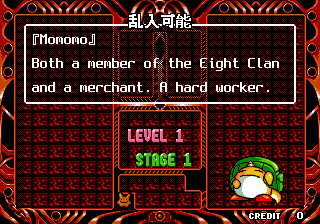
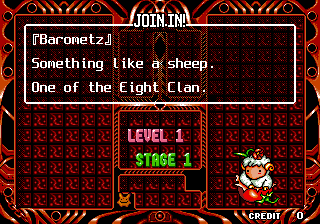
README, technical notes, screenshots; chips found by CRC, output CRC check
Claude-Session: https://claude.ai/code/session_013Vje3pEtpLHubqCGwCgoQX

diff --git a/tools/romset.py b/tools/romset.py
@@ -6,15 +6,20 @@ PROGRAM = (('epr-17241.ic32', 0x1cad1149), ('epr-17240.ic31', 0xbeecf96d))
 SOUND = ('epr-17239.ic4', 0x020ff6ef)
 
 
+def read_chip(z, name, crc):
+    """a chip of the zip, found by CRC (the names inside the zip do not matter)"""
+    for info in z.infolist():
+        if info.CRC == crc:
+            data = z.read(info)
+            if zlib.crc32(data) & 0xffffffff == crc:
+                return data
+    raise SystemExit('%s (CRC %08x) not found in the zip: not the MAME puyopuy2 dump' % (name, crc))
+
+
 def read_program(zip_path):
     """the 1 MB program of puyopuy2.zip, interleaved, checked by CRC"""
     z = zipfile.ZipFile(zip_path)
-    halves = []
-    for name, crc in PROGRAM:
-        data = z.read(name)
-        if zlib.crc32(data) & 0xffffffff != crc:
-            raise SystemExit('%s: wrong CRC (not the MAME puyopuy2 dump)' % name)
-        halves.append(data)
+    halves = [read_chip(z, name, crc) for name, crc in PROGRAM]
     prog = bytearray(len(halves[0]) * 2)
     prog[0::2], prog[1::2] = halves
     return prog
@@ -27,8 +32,4 @@ def split_program(prog):
 
 def read_sound(zip_path):
     """the UPD7759 sample ROM, unchanged"""
-    name, crc = SOUND
-    data = zipfile.ZipFile(zip_path).read(name)
-    if zlib.crc32(data) & 0xffffffff != crc:
-        raise SystemExit('%s: wrong CRC (not the MAME puyopuy2 dump)' % name)
-    return data
+    return read_chip(zipfile.ZipFile(zip_path), *SOUND)

diff --git a/make_puyopuy2e.py b/make_puyopuy2e.py
@@ -11,6 +11,8 @@ sys.path.insert(0, os.path.join(HERE, 'tools'))
 import romset, build
 
 OUT_NAMES = ('pp2e-17241.ic32', 'pp2e-17240.ic31')
+# the CRCs the puyopuy2e entry of mame2003-plus expects
+EXPECTED = {'pp2e-17241.ic32': 0x6a1c9865, 'pp2e-17240.ic31': 0x384bcad2, 'epr-17239.ic4': 0x020ff6ef}
 
 
 def main():
@@ -30,9 +32,13 @@ def main():
         for name, data in files:
             z.writestr(name, data)
     print('written', out)
+    ok = True
     for name, data in files:
-        print('  %-16s %7d  %08x  %s' % (name, len(data), zlib.crc32(data) & 0xffffffff,
-                                         hashlib.sha1(data).hexdigest()))
+        crc = zlib.crc32(data) & 0xffffffff
+        print('  %-16s %7d  %08x  %s' % (name, len(data), crc, hashlib.sha1(data).hexdigest()))
+        ok = ok and crc == EXPECTED[name]
+    print('CRCs match the mame2003-plus driver' if ok else
+          'WARNING: the CRCs differ from the ones the mame2003-plus driver expects')
 
 
 if __name__ == '__main__':

diff --git a/README.md b/README.md
@@ -1,10 +1,168 @@
 # Puyo Puyo 2 English (Sega C2 arcade)
 
-Work in progress: an English translation of the arcade *Puyo Puyo 2* (ぷよぷよ通, Compile
-1994, Sega C2 board, MAME set `puyopuy2`), as a bootleg set `puyopuy2e` for
-[mame2003-plus](https://github.com/zanac/mame2003-plus-libretro).
+An English translation of the arcade *Puyo Puyo 2* (ぷよぷよ通, Compile 1994, Sega C2
+board, MAME set `puyopuy2`), as a bootleg clone set `puyopuy2e` for
+[mame2003-plus](https://github.com/zanac/mame2003-plus-libretro) (branch `puyopuy2e`).
 
-Character names follow the English names of the Super Puyo Puyo 2 translation by J2e
-Translations (SKELETON-T, MINI ZOMBIE, SUKIYAPODES, ...).
+Everything Japanese on screen is translated: the character profiles before each match,
+the attract mode's tutorial pages, the title logo, the entry screen, the tower, the rule
+and level select screens, the join-in messages, the continue and win screens and the
+service menu. The character names follow the English names of the Super Puyo Puyo 2 fan
+translation by J2e Translations (Skeleton-T, Mini Zombie, Sukiyapodes, ...).
 
-See [docs/notes.md](docs/notes.md) for the technical notes.
+![Puyo Puyo 2 English in mame2003-plus](screenshots/core_title.png)
+![a tutorial page in mame2003-plus](screenshots/core_tutorial.png)
+
+*`puyopuy2e` in the mame2003-plus core: the title and a tutorial page.*
+
+## For dummies
+
+You need one file you already have from your MAME/RetroArch ROM collection:
+`puyopuy2.zip` (Puyo Puyo 2, the MAME set). This project does not give it to you.
+
+1. Install Python 3 (Windows: [python.org](https://www.python.org/downloads/), tick
+   "Add python.exe to PATH" during the setup; macOS and Linux usually have it already).
+   Nothing else is needed.
+2. Download this project: green **Code** button on GitHub, **Download ZIP**, and unpack
+   it. Or with git:
+   ```
+   git clone https://github.com/zanac/puyopuy2e
+   ```
+3. Put `puyopuy2.zip` in the `puyopuy2e` folder you just unpacked (next to this README).
+4. Open a terminal in that folder (Windows: type `cmd` in the address bar of the folder
+   window and press Enter) and run:
+   ```
+   python3 make_puyopuy2e.py
+   ```
+   On Windows, if `python3` is not found, use `python` or `py` instead:
+   ```
+   py make_puyopuy2e.py
+   ```
+5. You get `puyopuy2e.zip` in the same folder, the full English ROM set (all three chips,
+   it does not need `puyopuy2.zip` any more). The script prints "written ...
+   puyopuy2e.zip", the CRC of every file and "CRCs match the mame2003-plus driver".
+6. Copy `puyopuy2e.zip` into your ROM folder and start it with the **mame2003-plus**
+   core (RetroArch: Load Content, pick `puyopuy2e.zip`, choose "Arcade (MAME
+   2003-Plus)"). The core must be a build with the `puyopuy2e` entry (branch
+   `puyopuy2e` of [zanac/mame2003-plus-libretro](https://github.com/zanac/mame2003-plus-libretro)).
+
+The zip can also be somewhere else: `python3 make_puyopuy2e.py FOLDER [OUT_FOLDER]`, or
+the path of the zip itself. If the script says a chip is not found, your `puyopuy2.zip`
+is a different dump: check it against the input table below (the chips are found by CRC,
+the names inside the zip do not matter).
+
+## Support
+Hey dude! Help me out for a couple of :beers: or a :coffee:!<br/>
+[![coffee](https://www.buymeacoffee.com/assets/img/custom_images/black_img.png)](https://bmc.link/zanac)
+
+## Status
+
+| Part | State |
+|---|---|
+| Character profiles before each match (58 pages) | English, new 8x16 text engine and font |
+| Attract mode tutorial pages (15) and their titles | English |
+| Title logo ぷよぷよ通 | redrawn as "Puyo Puyo", the gold 2 stays |
+| Entry screen: 参加者募集中, 参加, ひとりでぷよぷよ ... | PLAYERS WANTED!, JOIN!, 1P/2P PUYO PUYO |
+| Tower: 相手をえらんでね, ここにいる | PICK YOUR RIVAL, YOU ARE HERE |
+| 乱入可能 sign, 連鎖 counter, 全消し | JOIN IN!, CHAIN, ALL CLEAR |
+| Rule select screen | CHOOSE A RULE! and both rule lines |
+| Level select: 激甘 ... 激辛 | EXTRA MILD, MILD, MEDIUM, HOT, EXTRA HOT |
+| Join-in and link messages, はい / いいえ | NEW CHALLENGER!, YES / NO, ... |
+| Continue screen, win screen (やった) | CONTINUE?, YAY! |
+| Act Against AIDS slogan 勇気と愛気 | COURAGE AND LOVE |
+| Service menu romaji, ending record (MAX RENSA) | English |
+| ROM set `puyopuy2e`, driver entry | done; checked in MAME 0.264 and in the mame2003-plus core |
+| Full game, start to ending, 1 player and 2 players | played in MAME: every screen in English |
+
+Known limits:
+
+- The ending has no text; its playing record keeps the game's own romaji names of the
+  rivals (SUKETOUDARA, SHEZO WEGEY, ...), already in Latin letters.
+- The link messages (two cabinets joined by a cable) cannot be seen in an emulator; they
+  are checked by drawing them from the new ROM the way the game does.
+
+## Screenshots
+
+Japanese arcade original on the left, `puyopuy2e` on the right (MAME).
+
+| | Original | English |
+|---|---|---|
+| Title | ![](screenshots/title_jp.png) | ![](screenshots/title_en.png) |
+| Act Against AIDS | ![](screenshots/aids_jp.png) | ![](screenshots/aids_en.png) |
+| Tutorial | ![](screenshots/tutorial_jp.png) | ![](screenshots/tutorial_en.png) |
+| Tutorial | ![](screenshots/tutorial2_jp.png) | ![](screenshots/tutorial2_en.png) |
+| Entry | ![](screenshots/entry_jp.png) | ![](screenshots/entry_en.png) |
+| Entry, game mode | ![](screenshots/mode_jp.png) | ![](screenshots/mode_en.png) |
+| Tower | ![](screenshots/tower_jp.png) | ![](screenshots/tower_en.png) |
+| Tower | ![](screenshots/tower2_jp.png) | ![](screenshots/tower2_en.png) |
+| Profile | ![](screenshots/profile_jp.png) | ![](screenshots/profile_en.png) |
+| Join-in | ![](screenshots/challenger_jp.png) | ![](screenshots/challenger_en.png) |
+| Rule select | ![](screenshots/rule_jp.png) | ![](screenshots/rule_en.png) |
+| Level select | ![](screenshots/level_jp.png) | ![](screenshots/level_en.png) |
+| Win | ![](screenshots/win_jp.png) | ![](screenshots/win_en.png) |
+| Continue | ![](screenshots/continue_jp.png) | ![](screenshots/continue_en.png) |
+
+## The ROM set
+
+Input, the chips of `puyopuy2.zip`:
+
+| File | Size | CRC32 | SHA1 |
+|---|---|---|---|
+| epr-17241.ic32 | 524288 | 1cad1149 | 77fb0482fa35e615c0bed65f4d7f4dd89b241f23 |
+| epr-17240.ic31 | 524288 | beecf96d | c2bdad4b6184c11f81f2a5db409cb4ea186205a7 |
+| epr-17239.ic4 | 524288 | 020ff6ef | 6095b8277b47a6fd7a9721f15a70ae5bf6be9b1a |
+
+Output, the files of `puyopuy2e.zip`:
+
+| File | Size | CRC32 | SHA1 | From |
+|---|---|---|---|---|
+| pp2e-17241.ic32 | 524288 | 6a1c9865 | d067d991be92d051da440d32640a4fb12333e82a | epr-17241.ic32, changed |
+| pp2e-17240.ic31 | 524288 | 384bcad2 | 569510f45b3bcbd1d191524de78e6b47c2b1cc47 | epr-17240.ic31, changed |
+| epr-17239.ic4 | 524288 | 020ff6ef | 6095b8277b47a6fd7a9721f15a70ae5bf6be9b1a | copied |
+
+These names and CRCs are the ones the `puyopuy2e` driver entry of mame2003-plus expects
+(a clone of `puyopuy2`, same board and protection). To try the set in a recent MAME
+instead, put the two `pp2e` files in a copy of `puyopuy2.zip` under the names
+`epr-17241.ic32` and `epr-17240.ic31` and start `puyopuy2`.
+
+## How it is built
+
+`make_puyopuy2e.py` reads the program of `puyopuy2.zip` and runs `tools/build.py`, which
+redoes the whole translation from the original program every time; the result is the
+same byte for byte. The English text is `text/script_en.py`; the PNGs in `assets/gfx`
+are the big lettering. Only the Python 3 standard library is used.
+
+| File | Purpose |
+|---|---|
+| `make_puyopuy2e.py` | the ROM set from `puyopuy2.zip` |
+| `tools/build.py` | the whole build, step by step |
+| `text/script_en.py` | the English profiles and tutorial pages |
+| `tools/text.py` | writes the pages and points the original ones at them |
+| `patch/text8.s`, `patch/hooks.s` | the new text engine (8x16 glyphs) and the page hooks (68000; `patch/assemble.sh` rebuilds the `.bin`) |
+| `tools/font.py`, `font/spleen-8x16.bdf` | the text font |
+| `font/title_font.py` | the capitals of the tutorial titles and small labels |
+| `tools/titles.py` | the tutorial page titles |
+| `tools/labels.py` | the other screens' graphics and the service menu words |
+| `tools/logo.py` | the title logo |
+| `tools/linkmsg.py` | the join-in and link messages |
+| `tools/levels.py` | the level select labels |
+| `tools/gfx.py` | tiles, maps, the compressed graphics streams and where they go |
+| `tools/lz.py` | the game's LZ format, unpacker and packer |
+| `tools/png.py` | reads and writes the PNGs |
+| `tools/romset.py` | the chips of the MAME set |
+| `tools/make_gfx_assets.py`, `tools/bigtext.py` | draw `assets/gfx` (maintainers only: Pillow and the Poppins Bold font) |
+
+Technical notes on the game: [docs/notes.md](docs/notes.md).
+
+## Credits and license
+
+- Translation and hacking: Zanac (Vanni Brutto).
+- Character names: from the Super Puyo Puyo 2 English translation by J2e Translations.
+- Text font: [Spleen](https://github.com/fcambus/spleen) 8x16 by Frederic Cambus, BSD
+  2-clause license (`font/LICENSE-spleen`).
+- Title logo: the "Puyo Puyo" lettering is cut from `assets/puyopuyo_logo.jpg`
+  (`logo_puyo.png`, in the colours of the original logo).
+- Big lettering of `assets/gfx`: drawn with Poppins Bold (SIL Open Font License) by the
+  maintainer script; the font itself is not part of the project.
+- *Puyo Puyo 2* © Compile 1994, Sega. This project distributes no game data: the build
+  starts from your own `puyopuy2.zip`.

diff --git a/docs/notes.md b/docs/notes.md
@@ -1,49 +1,102 @@
 # Puyo Puyo 2 (Sega C2): technical notes
 
-Working notes from the analysis of the MAME set `puyopuy2` (Compile 1994, Sega C2 board).
+Notes from the analysis of the MAME set `puyopuy2` (Compile 1994, Sega C2 board) and on
+how `puyopuy2e` changes it. Addresses are in the 1 MB program.
 
 ## Program
 
 `epr-17241.ic32` (even bytes) and `epr-17240.ic31` (odd bytes) make the 1 MB 68000
-program (`tools/romset.py`). `epr-17239.ic4` is the UPD7759 sound ROM.
+program (`tools/romset.py`). `epr-17239.ic4` is the UPD7759 sound ROM, unchanged. The
+protection chip (read at `$800001`) does not check the program: the modified ROM runs in
+MAME 0.264 and in mame2003-plus.
 
 ## Text
 
-The text is not compressed (`tools/text.py`): 16-bit codes, one per 16x16 glyph of a
-1 bpp font in the ROM (glyph of code `c` at `0x92c65 + c * 32`). The font holds only the
-glyphs the text uses (kana and kanji, in order of first use). Line breaks are `ff08 pos`,
-the end of a page `ffff`.
+The text is not compressed: 16-bit codes, one per 16x16 glyph of a 1 bpp font (glyph of
+code `c` at `0x92c65 + c * 32`; the font holds only the glyphs the text uses, kana and
+kanji in order of first use). Control codes:
 
-Two kinds of text, all in `0x1bf94`-`0x1d630`:
+- `ff04 n`: typing speed;
+- `ff08 pos`: new line (`pos` is the VRAM offset of the line from the box's corner);
+- `ff1c hi lo`: jump by the TURN DIRECTION DIP switch;
+- `ffff`: end of the page.
 
-- the character profiles shown in a box before each match (38, pointer table at `0x1bf0c`);
-- the attract mode's tutorial pages (きほんそうさのひみつ, おじゃまぷよのひみつ, そうさいのひみつ,
-  ぜんけしのひみつ, ...).
+Two kinds of pages, all in `0x1bf94`-`0x1d630`: the character profiles shown in a box
+before each match (32 characters x 3 rows) and the tutorial pages of the attract mode (18
+characters x 7 rows). They are opened by two script operations: op 03 (`0x171a4`, the
+tutorial window) and op 0b (`0x1720a`, the profile box); both take a long resume pointer,
+then the text inline.
 
-The game draws a page by giving each distinct glyph two VRAM tiles (8x16 each, tiles
-`0x780` on).
+The text task is at `0x17432`. It gets the font from the word at `0x9000e` (the table of
+bank `0x90000`) and draws each glyph with the routine at `0x17538`, which keeps the codes
+already drawn at `0xffaa00` and gives each new one two columns of two tiles (from the
+tile number at `$38` of the task).
+
+In `puyopuy2e`:
+
+- `0x17538` is replaced by `patch/text8.s`: 8x16 glyphs (16 bytes, one column of two
+  tiles per code), ASCII codes; code 0 draws nothing (the pause after a name);
+- the font (Spleen 8x16, `{` and `}` drawn as the corner brackets 『』) is at `0x98300`,
+  and `0x9000e` points at it;
+- `patch/hooks.s` at `0x98b00` (jumped to from `0x171b4` and `0x1720c`): when the inline
+  text starts with `0xfffe`, the long that follows is where the text really is;
+- the English pages are at `0x98c00`-`0x9fff0`; each original page starts with
+  `0xfffe` and a pointer to its English page.
 
 ## Compressed graphics
 
-Most tiles are packed with a small LZ (`tools/lz.py`, decompressor at `0x1e72`):
+Most tiles and maps are packed with a small LZ (`tools/lz.py`, unpacker at `0x1e72`):
 
 - `00` ends the stream;
 - `01`-`7f`: that many literal bytes follow;
 - `80 | k`, `b`: copy `k + 3` bytes from a 256-byte ring buffer, starting `b + 1` bytes
   back.
 
-The streams are loaded through lists of 6-byte entries (flags, count, VRAM destination,
-16-bit offset of the stream inside the list's 64 KB bank; `0xff` ends a list), read at
-`0x1b70`. `tools/lz.py` packs the same format; on every stream checked it gives back the
-original size exactly.
+The streams are loaded through lists of 6-byte entries (flags, count, VRAM or RAM
+destination, 16-bit offset of the stream inside the list's 64 KB bank; `0xff` ends a
+list), read at `0x1b70`. `tools/lz.py` packs the same format; on every stream checked it
+gives back the original size exactly. A stream that grows is moved to free space (`0xff`)
+of its bank and its list entries are updated (`tools/gfx.py`, `Streams.write`).
 
-## Japanese on screen (found so far)
+A map stream holds the tile numbers of its tile stream (the VRAM base is added when it
+is drawn), so a block of the map can be redrawn with the tiles only that block uses
+(`gfx.replace_block`, `gfx.replace_blocks`).
 
-Graphics: 参加者募集中, 参加, ひとりでぷよぷよ, 乱入可能, 相手をえらんでね, ここにいる,
-コンティニューするかい？ (game over), 全消し, the tutorial page titles, 勇気と愛気 under the
-Act Against AIDS logo, the title logo ぷよぷよ通.
+## Graphics changed
 
-## Title logo
+| Screen | Japanese | Where |
+|---|---|---|
+| Title | ぷよぷよ通 logo: ぷ and よ | sprite groups at `0x2a802` and `0x2aa3e`, tiles `0xb7511` from `0x4e0` (`tools/logo.py`) |
+| Tutorial | page titles | tiles `0x91545`, map `0x44ec8` (`tools/titles.py`) |
+| Tutorial, play | 乱入可能 | sprite tiles `0x900be` 0-15, tutorial tiles `0x91545` `0x14d`- |
+| Tutorial | 全消し | map `0x45503` at `0x270`, tiles `0x91545` |
+| Play | 連鎖 | tiles `0x83f2b` `0x78`-`0x7a` |
+| Tower | 相手を / えらんでね, ここにいる | tiles `0xc62d1`, `0xc8503` |
+| Continue | コンティニューするかい？ | map `0xcc655`, tiles `0xcca17` |
+| Entry | 参加者募集中, 参加, ひとり/ふたり/さんにん/よにん + でぷよぷよ | map `0xff8d4` (`0x2a4`, `0x1f4`, `0x454`-`0x6c4`), tiles `0xca599` |
+| AIDS logo | 勇気と愛気 | map `0x3eaff` at `0x604`, tiles `0x3ee26` |
+| Rule select | ルールを選んでください and the two rule lines | map `0xfbd02` (`0x8c0`, `0x986`, `0xa0e`), tiles `0xfbf8f` |
+| Level select | 激甘 甘口 中辛 辛口 激辛 | sprite lists at `0x1e96c`, tiles `0x86339` (`tools/levels.py`) |
+| Win | やった | sprite list `0x1e542`, tiles `0x86f09` |
+| Join-in, link | 乱入されたよ, はい/いいえ, 回線が切れました ... | byte strings (`tools/linkmsg.py`), glyphs `0x8cb5e` |
 
-The ぷよぷよ通 title logo is redrawn as "Puyo Puyo 2": the "Puyo Puyo" lettering from
-`assets/puyopuyo_logo.jpg`, followed by a blue "2" in the same rounded style.
+Sprite lists (level labels, win): a count word, then for each sprite y, size and link,
+attribute, x (y and x relative to the object). The level labels became lists of 16x8
+sprites made of 10 pieces of three 4x7 letters.
+
+The join-in messages are drawn by `0x15be`: a VRAM offset word, then one byte per 16x16
+glyph (tile `4 x byte`, column by column), `80 hh` to set the high byte of the tile
+words, `fe` for another line, `ff` for the end; an offset `ffff` is followed by a long
+pointer. The 32 glyphs became pairs of 8x16 letters; the strings are new and the old
+ones point at them.
+
+## Service menu
+
+The service menu is in romaji; the words still in Japanese (SOUSAI, RULE HENKA, RANNYU)
+and MAX RENSA in the ending's playing record are replaced in place, same lengths.
+
+## Debug
+
+TCRF documents a debug MODE SELECT menu (`maincpu.mb@002AF6=09`) with a stage select.
+For quick tests, the boards are at `0xff8000` (player 1) and `0xff8800` (player 2), 168
+bytes; filling one with `0xe0` (nuisance puyo) ends the match.
